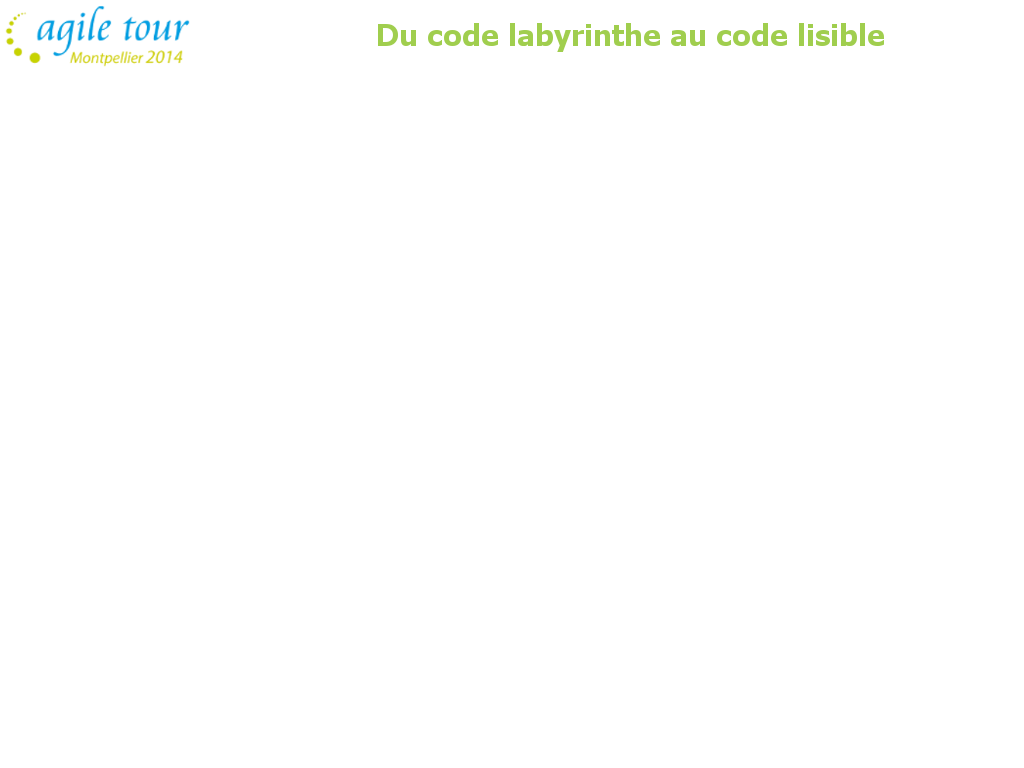
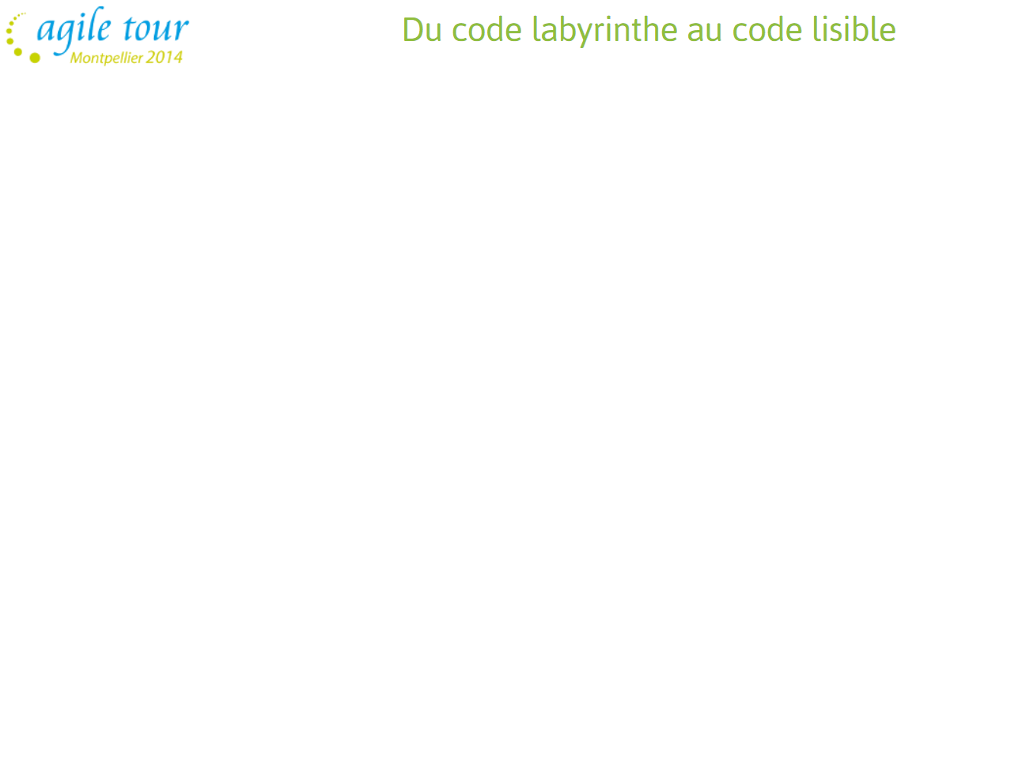
fin

Changed region(s): [[0.3438, 0.0312, 0.875, 0.0625]]

diff --git a/css/custom.css b/css/custom.css
@@ -21,6 +21,10 @@ div.background {
 }
 */
 
+body {
+    overflow:hidden;
+}
+
 .slide {
 }
 

diff --git a/data/1-intro/slides.md b/data/1-intro/slides.md
@@ -1,86 +1,115 @@
-!SLIDE ===========================
+!SLIDE nobackground ===========================
 
-<img src="data/1-intro/Barcelona_Laverinto_Horta_09_JMM.JPG" width="50%">
+<table style="width: 100%">
+<tr>
+<td><img src="data/1-intro/atmtp2014.png" width="250px"></td>
+<td><div style="font-size: 1.35em; color: #90be3e; padding-top: 0.5em">Du code labyrinthe au code lisible</div>
+<div class="right" style="color: #559; padding-top: 0.3em">Thierry Chatel</div></td>
+</tr>
+</table>
 
-<div class="left">_“Je n'écris pas pour une petite élite dont je n'ai cure, ni pour cette entité platonique adulée qu'on surnomme la Masse. Je ne crois pas à ces deux abstractions, chères au démagogue. J'écris pour moi, pour mes amis et pour adoucir le cours du temps.”_</div>
-<br/>
-<div class="right small">**Jorge Luis Borges.**</div>
+<br/><br/>
+
+<img src="data/1-intro/Barcelona_Laverinto_Horta_09_JMM.JPG" width="41%">
+
+<div class="left" style="font-size: 0.95em; padding: 0.9em">_“Je n'écris pas pour une petite élite dont je n'ai cure, ni pour cette entité platonique adulée qu'on surnomme la Masse. Je ne crois pas à ces deux abstractions, chères au démagogue. J'écris pour moi, pour mes amis et pour adoucir le cours du temps.”_</div>
+<div class="right small" style="font-size: 0.95em; padding: 0 2em 1em 0">**Jorge Luis Borges**</div>
+
+
+!SLIDE nobackground ===========================
+
+<img src="data/1-intro/sponsors.png">
+
+
+!SLIDE left big ===========================
+
+<table>
+<tr>
+<td><img src="data/1-intro/GDE-2014-Angular JS.svg" width="150px"></td>
+<td class="biggest">
+Thierry Chatel<br/>
+<img src="data/1-intro/methotic.png" width="330px">
+&nbsp;&nbsp;&nbsp;
+<img src="data/1-intro/crealead.jpg" width="125px">
+</td>
+</tr>
+</table>
+
+![](mail.png) tchatel@methotic.com
+
+![](google-plus.png) +ThierryChatel
+
+![](twitter.png) @ThierryChatel
 
 
 !SLIDE subsection ================
 
 # Introduction
-TODO: bio, 1ère page, dernière page, etc
-
-
-!SLIDE nobackground ===========================
-
-<img src="data/1-intro/sponsors.png" width="98%">
 
 
 !SLIDE ===========================
 
-# TODO BIO ici ?
-
-
-!SLIDE ===========================
-
-<img src="data/1-intro/macbook-407126_1280.jpg" width="40%">
+<img src="data/1-intro/macbook-407126_1280.jpg" width="450px">
 ## coder pour qui ?
 
 !NOTES ---------------------------
 
 Pour qui on écrit du code ?
-- pour l’ordinateur qui va l’exécuter (évidemment)
-    * alors pourquoi on ne code pas en langage machine / assembleur ?
-- pour les développeurs qui interviennent dessus (y compris soi-même)
-- pour le client qui le paye, et qui a envie que son investissement soit durable, ait de la valeur
+
+* pour l’ordinateur qui va l’exécuter (évidemment)
 
 
 !SLIDE ===========================
 
-<img src="data/1-intro/digital-388075_1280.jpg" width="40%">
+<img src="data/1-intro/digital-388075_1280.jpg" width="400px">
 ## assembleur ?
 ## langage machine ?
 
+!NOTES ---------------------------
+
+* si c'est pour l'ordinateur, alors pourquoi on ne code pas en langage machine / assembleur ?
+* pour les développeurs qui interviennent dessus (y compris soi-même)
+* pour le client qui le paye, et qui a envie que son investissement soit durable, ait de la valeur
+
+
 
 !SLIDE ===========================
 
-<img src="data/1-intro/read-316507_1280.jpg" width="40%">
+<img src="data/1-intro/read-316507_1280.jpg" width="380px">
 # code difficile à lire ?
 
 
 !SLIDE ===========================
 
-<img src="data/1-intro/question-mark-460868_1280.jpg" width="40%">
+<img src="data/1-intro/question-mark-460868_1280.jpg" width="400px">
 ## _“don’t make me think”_
 
 !NOTES ---------------------------
 
-- on peut manipuler 5 ou 6 concepts en même temps au maximum
+* on peut manipuler 5 ou 6 concepts en même temps au maximum
     * notre cerveau n'exécute pas naturellement le code (ou alors c'est très long)
     * il le lit, comme on lit un texte
     * de toute façon il ne s'agit pas de l'exécuter mais de le comprendre, de vérifier s'il est correct
-- objectif de rendre la compréhension la plus immédiate possible
+* objectif de rendre la compréhension la plus immédiate possible
     * n’est pas enseigné à l’école
     * n’est pas forcément perçu par les jeunes développeurs, et même beaucoup qui ne le comprendront jamais
 
 !SLIDE ===========================
 
-<img src="data/1-intro/da-vinci-code.jpg" width="25%">
+<img src="data/1-intro/da-vinci-code.jpg" width="300px">
 
 
 !SLIDE ===========================
 
 # dette technique
-<img src="data/1-intro/money-322514_1280.jpg" width="40%">
+<img src="data/1-intro/money-322514_1280.jpg" width="400px">
 
 !NOTES ---------------------------
 
-- expliquer la métaphore
-- les intérêts de la dette se traduisent par un surcroît de travail quand il faut intervenir sur le code
-- jusqu’au surendettement technique, quand un projet coûte trop cher à maintenir, et qu’on n’a pas les moyens de le réécrire
-- la (mauvaise) lisibilité du code représente la plus grande part de la dette technique
+* expliquer la métaphore
+* les intérêts de la dette se traduisent par un surcroît de travail quand il faut intervenir sur le code
+* jusqu’au surendettement technique, quand un projet coûte trop cher à maintenir, et qu’on n’a pas les moyens de le réécrire
+* la (mauvaise) lisibilité du code représente la plus grande part de la dette technique
     * on passe infiniment plus de temps à lire le code qu’à l’écrire
     * la maintenance du code commence dès qu’on a écrit une ligne
     * c’est le niveau 1 et 90% de la qualité technique

diff --git a/data/3-documentation/slides.md b/data/3-documentation/slides.md
@@ -1,11 +1,11 @@
 !SLIDE subsection ================
 
-# Documentation dans le code
+# Documentation...<br/> dans le code
 
 
 !SLIDE ===========================
 
-<img src="data/3-documentation/800px-Bonanjo_-_Centre_de_documentation_et_information_urbanisme_(CUD)_04.JPG" width="40%">
+<img src="data/3-documentation/800px-Bonanjo_-_Centre_de_documentation_et_information_urbanisme_(CUD)_04.JPG" width="400px">
 ## pas de documentation externe
 
 
@@ -26,14 +26,14 @@ Sujet qui fâche, sur lequel les développeurs ont souvent mauvaise conscience.
 
 !SLIDE ===========================
 
-<img src="data/3-documentation/bad-157437_640.png" width="20%">
+<img src="data/3-documentation/bad-157437_640.png" width="200px">
 
 
 !SLIDE ===========================
 
 ## obsolètes
 <br/>
-<img src="data/3-documentation/typewriter-28701_1280.png" width="30%">
+<img src="data/3-documentation/typewriter-28701_1280.png" width="350px">
 
 !NOTES ---------------------------
 
@@ -42,9 +42,11 @@ Sujet qui fâche, sur lequel les développeurs ont souvent mauvaise conscience.
 - La vérité est dans le code, pas dans le commentaire.
 
 
-!SLIDE ===========================
+!SLIDE smallcode ===========================
 
 ## inutiles
+
+<br/>
 
     // Increment i
     i++;
@@ -56,15 +58,19 @@ Sujet qui fâche, sur lequel les développeurs ont souvent mauvaise conscience.
 
 !SLIDE ===========================
 
-## _“Don’t comment bad code — rewrite it.”_
-<img src="data/3-documentation/Brian_kernighan2.gif" width="15%">
-### Brian W. Kernighan and P. J. Plaugher
+### _“Don’t comment bad code — rewrite it.”_
+
+</br/>
+<div class="left">
+<img src="data/3-documentation/Brian_kernighan2.gif" width="150px"></br/>
+Brian W. Kernighan and P. J. Plaugher
+</div>
 
 
 
 !SLIDE ===========================
 
-<img src="data/3-documentation/good-157436_640.png" width="20%">
+<img src="data/3-documentation/good-157436_640.png" width="200px">
 ## qu'est-ce qu'un bon commentaire ?
 
 
@@ -115,7 +121,7 @@ Sujet qui fâche, sur lequel les développeurs ont souvent mauvaise conscience.
 
 ## vocabulaire commun
 ### _“métaphore”_ (XP), _“ubiquitous language”_ (DDD)
-<img src="data/3-documentation/dictionary-390055_1280.jpg" width="40%">
+<img src="data/3-documentation/dictionary-390055_1280.jpg" width="400px">
 
 !NOTES ---------------------------
 
@@ -144,9 +150,42 @@ Sujet qui fâche, sur lequel les développeurs ont souvent mauvaise conscience.
 
 
 
-!SLIDE smaller ===========================
+!SLIDE smallercode ===========================
 
-TODO : variable pour le nommage ?
+    hasClass: function( selector ) {
+        var className = " " + selector + " ",
+            i = 0,
+            l = this.length;
+        for ( ; i < l; i++ ) {
+            if ( this[i].nodeType === 1
+                    && (" " + this[i].className + " ")
+                        .replace(rclass, " ")
+                        .indexOf( className ) > -1 ) {
+                return true;
+            }
+        }
+        return false;
+    }
+
+
+!SLIDE smallercode ===========================
+
+    hasClass: function( selector ) {
+        var className = " " + selector + " ",
+            i = 0,
+            l = this.length;
+        for ( ; i < l; i++ ) {
+            var isTag = this[i].nodeType === 1;
+            var isTagWithThatClass = isTag
+                    && (" " + this[i].className + " ")
+                        .replace(rclass, " ")
+                        .indexOf( className ) > -1;
+            if (isTagWithThatClass) {
+                return true;
+            }
+        }
+        return false;
+    }
 
 
 !SLIDE bullets ===========================

diff --git a/data/2-presentation/slides.md b/data/2-presentation/slides.md
@@ -11,7 +11,7 @@
 
 !SLIDE ===========================
 
-<img src="data/2-presentation/800px-Alignement_Tilleuls_(terrasse_de_St-Germain)01.jpg" width="40%">
+<img src="data/2-presentation/800px-Alignement_Tilleuls_(terrasse_de_St-Germain)01.jpg" width="400px">
 # indentation
 
 !NOTES ---------------------------
@@ -25,7 +25,7 @@
 !SLIDE ===========================
 
 # code mort en commentaire
-<img src="data/2-presentation/800px-Payatas-Dumpsite_Manila_Philippines02.jpg" width="50%">
+<img src="data/2-presentation/800px-Payatas-Dumpsite_Manila_Philippines02.jpg" width="600px">
 
 !NOTES ---------------------------
 
@@ -35,7 +35,7 @@
 !SLIDE ===========================
 
 # conventions de codages
-<img src="data/2-presentation/2815097134_e8e82f852a_o.jpg" width="40%">
+<img src="data/2-presentation/2815097134_e8e82f852a_o.jpg" width="400px">
 
 ### règles simples - rigoureusement appliquées
 
@@ -46,7 +46,7 @@
 
 !NOTES ---------------------------
 
-- (contre-)exemples dans AngularJS :
+* (contre-)exemples dans AngularJS :
     * reloadOnSearch à true par défaut
     * tableau de transformRequest qui peut être remplacé par une fonction : ?
 

diff --git a/data/6-conclusion/slides.md b/data/6-conclusion/slides.md
@@ -12,7 +12,9 @@
 
 !SLIDE ===========================
 
-## pair programming
+<img src="data/6-conclusion/640px-Pair_programming_1.jpg" width="500px">
+
+## _pair programming_
 ### le lecteur est à côté
 
 
@@ -20,20 +22,30 @@
 
 ## techniques
 
-* exprimer l'intention <span class="small">_(nommage, commentaires : “pourquoi”)_</span>
+* exprimer l'intention <br/><span class="small">_(nommage, commentaires : “pourquoi”)_</span>
 * rendre le plan évident
 * fluent interface
 
 !SLIDE bullets ===========================
 
-## être fier de son code
-
 <br/>
 
+## être fier de son code
+
+<br/><br/><br/>
 <div class="left">_“C'est un texte facilement lisible, limpide et assez joliment écrit : je le dis d'autant plus aisément que c'est moi qui l'ai rédigé.”_</div>
 <br/>
 <div class="small">**Valéry Giscard d'Estaing**, parlant du projet de Constitution européenne, 2005.</div>
 
+
+!NOTES SLIDE bigger left ===========================
+
+
+![](google-plus.png) www.bit.ly/19gwDwl
+
+![](twitter.png) www.twitter.com/atmtp
+
+![](mail.png) contact@agiletour-montpellier.fr
 
 
 

diff --git a/data/5-fluent-interface/slides.md b/data/5-fluent-interface/slides.md
@@ -40,5 +40,11 @@
 
 !SLIDE bullets ===========================
 
+<img src="data/5-fluent-interface/formes.jpg" width="260px">
+
 * vérification par le langage <span class="small">(si typé)</span>
 * vérification par le lecteur <span class="small">(erreurs flagrantes)</span>
+
+!NOTES ---------------------------
+
+Penser à la lisibilité quand on conçoit l'API.

diff --git a/data/4-plan/slides.md b/data/4-plan/slides.md
@@ -37,6 +37,8 @@
 
     xhr.send(post || '');
 
+<br/>
+
 ### Groovy
 
     def streetName = user?.address?.street
@@ -57,7 +59,7 @@
 
 !SLIDE bullets ===========================
 
-## explicables en une phrase
+## explicable en une phrase
 * une seule responsabilité
 * minimum d'imbrications
 * un seul niveau d'abstraction
